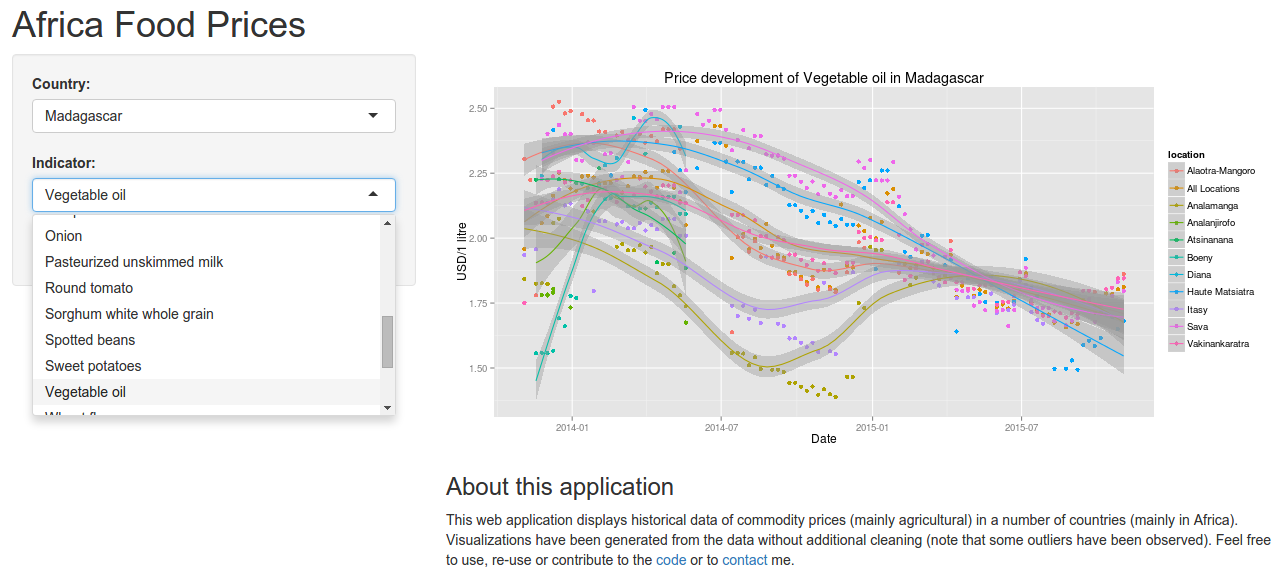
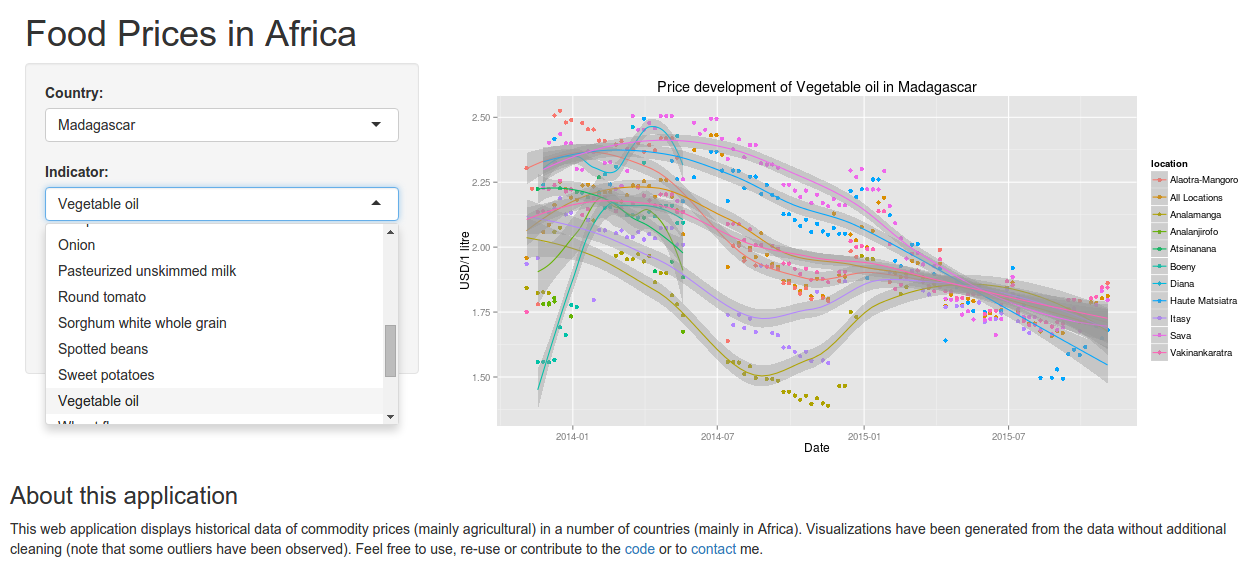
Added different fit options to plot + updated presentation

diff --git a/presenter/africafoodprices.md b/presenter/africafoodprices.md
@@ -21,7 +21,7 @@ From Open Data to Visualization
 ***
 ![plot of chunk unnamed-chunk-2](africafoodprices-figure/unnamed-chunk-2-1.png) 
 
-Source: [African Development Bank](http://opendataforafrica.org)
+Data: [African Development Bank](http://opendataforafrica.org)
 
 
 To Interactive Web Application
